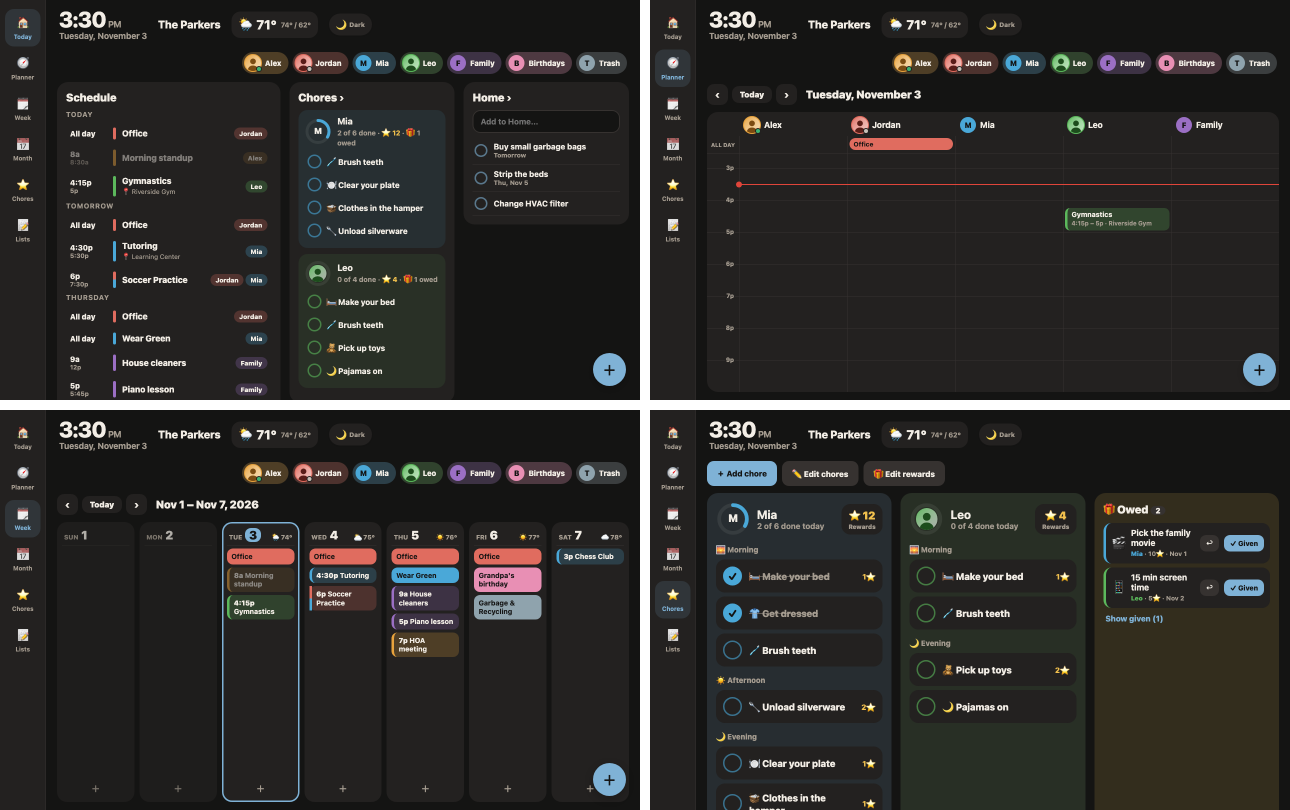
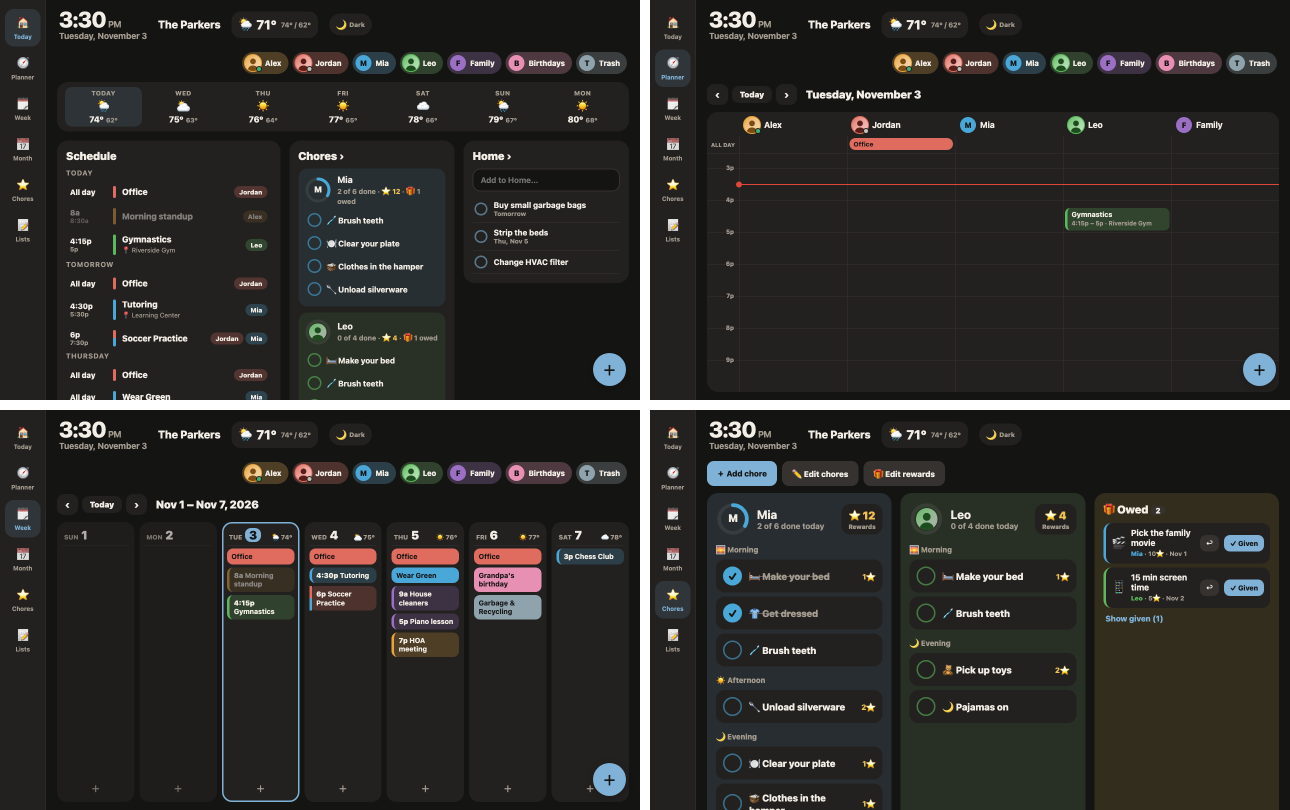
v0.12.0: 7-day forecast strip on Today
Shows the weather entity's daily forecast above the Today columns. The Today grid
now uses max-content rows; auto rows squashed the strip to its padding.

Changed region(s): [[0.031, 0.0926, 0.3411, 0.4938], [0.3721, 0.0926, 0.4651, 0.3395], [0.124, 0.1235, 0.155, 0.1543]]

diff --git a/dist/skyfam-card.js b/dist/skyfam-card.js
@@ -3,7 +3,7 @@
  *   calendar.*  (events via REST), todo.* (subscribe), counter.* (stars), weather.*, person.*
  * One file, no build step.
  */
-const SKYFAM_VERSION = "0.11.0";
+const SKYFAM_VERSION = "0.12.0";
 
 const DAY_MS = 86400000;
 const pad = (n) => String(n).padStart(2, "0");
@@ -774,7 +774,10 @@ class SkyFamCard extends HTMLElement {
     const flagged = this._lists.filter((l) => l.today);
     const todayLists = flagged.length ? flagged : this._lists.slice(0, 1);
     const limit = todayLists.length > 1 ? Number(this._config.today_list_items) || 5 : 0;
-    return `<div class="col sched card"><h2>Schedule</h2>${sched}</div>
+    const days = this._forecast.slice(0, 7);
+    const strip = days.length ? `<div class="fc-strip card">${days.map((f) => { const d = new Date(f.datetime);
+      return `<div class="fc-day ${sameDay(d, now) ? "today" : ""}"><span class="fc-n">${sameDay(d, now) ? "Today" : d.toLocaleDateString([], { weekday: "short" })}</span><span class="fc-i">${WEATHER_ICON[f.condition] || "🌡"}</span><span class="fc-t">${Math.round(f.temperature)}°${f.templow != null ? `<small>${Math.round(f.templow)}°</small>` : ""}</span></div>`; }).join("")}</div>` : "";
+    return `${strip}<div class="col sched card"><h2>Schedule</h2>${sched}</div>
       <div class="col card"><h2 data-act="view" data-v="chores" class="link">Chores ›</h2>${chores || `<div class="empty small">No chore lists set up</div>`}</div>
       <div class="col lists-col">${todayLists.map((l) => `<div class="card ${limit ? "stacked" : ""}">${this._listPanel(l, true, limit)}</div>`).join("")}</div>`;
   }
@@ -1377,7 +1380,12 @@ h4 { margin:14px 0 8px; font-size:15px; color:var(--mute); font-weight:800; }
 .empty { color:var(--mute); padding:30px; text-align:center; font-weight:700; } .empty.small { padding:10px 4px; text-align:left; font-size:15px; }
 
 /* today */
-.v-today { display:grid; grid-template-columns: 1.35fr 1fr 1fr; gap:18px; align-items:start; }
+.v-today { display:grid; grid-template-columns: 1.35fr 1fr 1fr; grid-auto-rows:max-content; gap:18px; align-items:start; } /* max-content: auto rows squashed the forecast strip */
+.fc-strip { grid-column:1 / -1; display:flex; justify-content:space-between; gap:6px; padding:10px 16px; overflow-x:auto; }
+.fc-day { flex:1; min-width:58px; display:flex; flex-direction:column; align-items:center; gap:2px; padding:4px; border-radius:14px; }
+.fc-day.today { background:color-mix(in srgb, var(--accent) 12%, transparent); }
+.fc-n { font-size:13px; font-weight:800; color:var(--mute); text-transform:uppercase; letter-spacing:.04em; } .fc-i { font-size:26px; line-height:1.2; }
+.fc-t { font-weight:800; font-size:17px; } .fc-t small { color:var(--mute); font-weight:700; font-size:13px; margin-left:5px; }
 .col { min-width:0; }
 .agenda { display:grid; grid-template-columns:74px 6px 1fr auto; align-items:center; gap:12px; width:100%; padding:10px 8px; border-radius:16px; }
 .agenda:hover { background:color-mix(in srgb, var(--c) 8%, transparent); }
